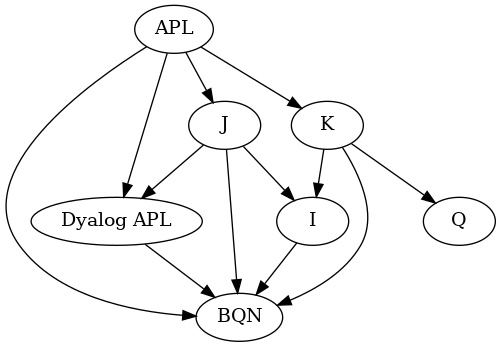
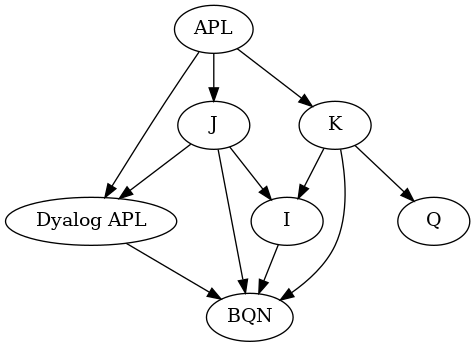
Cleanup

diff --git a/text-only/arraygraph.py b/text-only/arraygraph.py
@@ -1,7 +1,7 @@
 import graphviz as gv
 
 langs = { 
-     'BQN'   : ['J', 'APL', 'K', 'I', 'Dyalog APL'],
+     'BQN'   : ['J', 'K', 'I', 'Dyalog APL'],
      'Dyalog APL' : ['APL', 'J'],
     #  'FL'    : ['FP'],
     #  'FP'    : ['APL'],
